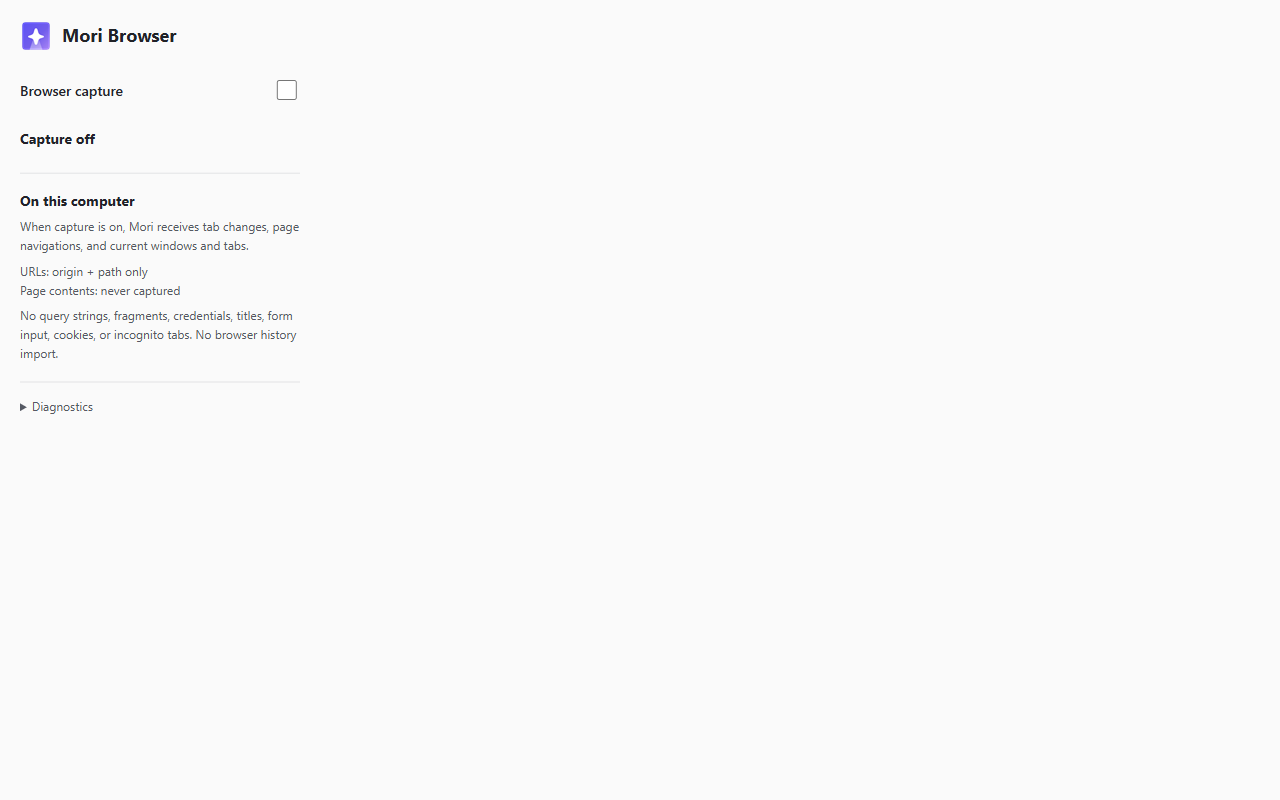
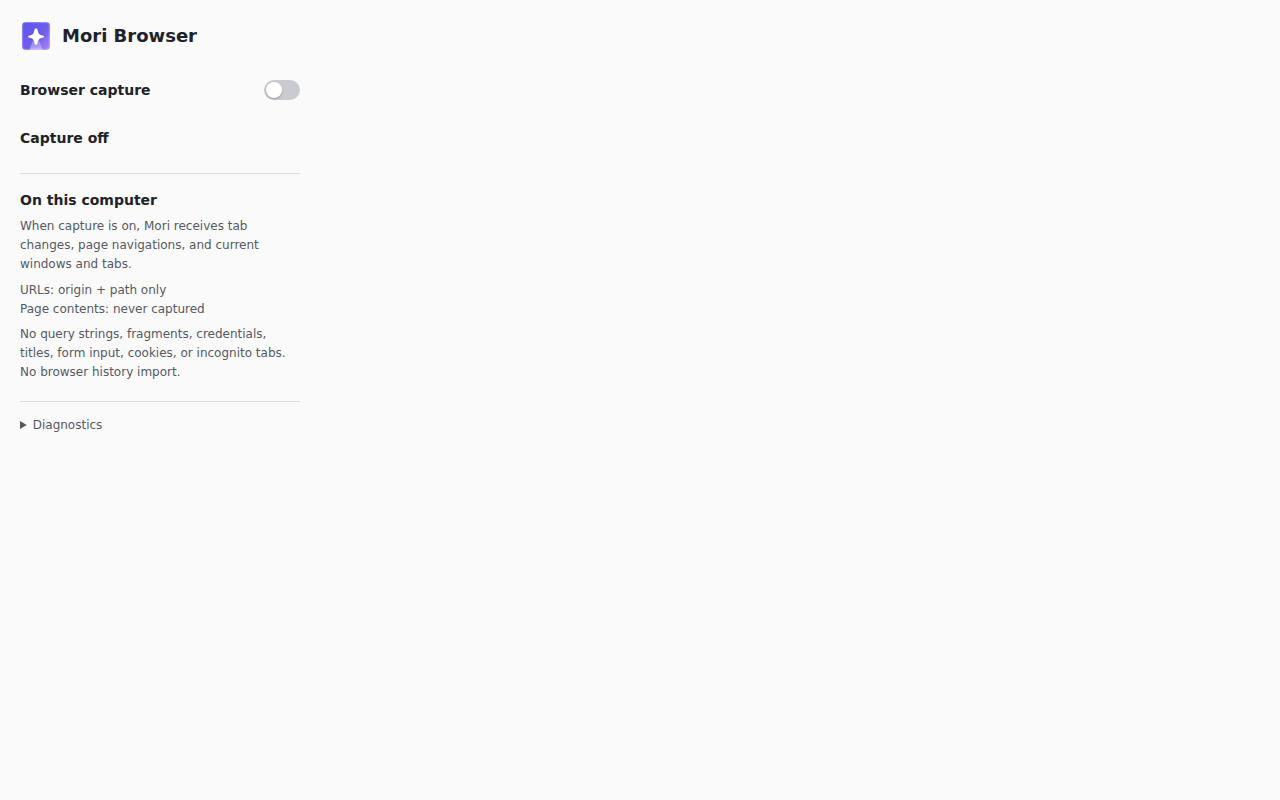
feat: show browser capture as an on and off switch
- The capture control was a bare system checkbox, the one control in the popup that looked unfinished
- Draw the same checkbox as a switch with the switch role, so the element, its id, the popup logic and the native smoke test are unchanged
- Use Mori's brand purple for the on state and the focus ring, with a dark-scheme variant, and skip the motion when reduced motion is requested
- Retake the Chrome Web Store popup screenshot so it shows the switch

diff --git a/src/popup.css b/src/popup.css
@@ -12,13 +12,25 @@ h2 { font-size: 14px; line-height: 1.5; }
 p { color: #555963; font-size: 12px; line-height: 1.6; overflow-wrap: anywhere; }
 section { display: grid; gap: 6px; }
 .toggle { display: flex; align-items: center; justify-content: space-between; gap: 12px; min-height: 40px; font-size: 14px; font-weight: 600; }
-.toggle input { width: 20px; height: 20px; accent-color: #6551c7; }
+/* The capture control is a checkbox drawn as a switch: same element, same
+   events, with the switch role so assistive technology announces on and off. */
+.toggle input {
+  appearance: none; flex: none; position: relative; width: 36px; height: 20px; margin: 0;
+  border-radius: 999px; background: #c9cbd1; cursor: pointer; transition: background-color 0.15s ease;
+}
+.toggle input::after {
+  content: ""; position: absolute; top: 2px; left: 2px; width: 16px; height: 16px; border-radius: 50%;
+  background: #fff; box-shadow: 0 1px 2px rgb(0 0 0 / 0.25); transition: transform 0.15s ease;
+}
+.toggle input:checked { background: #6246f5; }
+.toggle input:checked::after { transform: translateX(16px); }
+.toggle input:disabled { opacity: 0.5; cursor: default; }
 .disclosure, .debug { padding-top: 16px; border-top: 1px solid #dcdde0; }
 .debug summary { cursor: pointer; font-size: 12px; color: #555963; }
 .debug p { margin-top: 8px; }
 button { min-height: 32px; margin-top: 10px; padding: 5px 10px; border: 1px solid #b8bac0; border-radius: 4px; background: transparent; color: inherit; font: inherit; font-size: 12px; }
 button:disabled { opacity: 0.5; }
-:focus-visible { outline: 2px solid #6551c7; outline-offset: 3px; }
+:focus-visible { outline: 2px solid #6246f5; outline-offset: 3px; }
 [data-tone="ok"] { color: #227447; }
 [data-tone="warning"] { color: #996219; }
 @media (prefers-color-scheme: dark) {
@@ -26,6 +38,11 @@ button:disabled { opacity: 0.5; }
   p, .debug summary { color: #b9bbc2; }
   .disclosure, .debug { border-color: #44464c; }
   button { border-color: #62656c; }
+  .toggle input { background: #55585f; }
+  .toggle input:checked { background: #7b66ff; }
   [data-tone="ok"] { color: #88d3a3; }
   [data-tone="warning"] { color: #f1c576; }
+}
+@media (prefers-reduced-motion: reduce) {
+  .toggle input, .toggle input::after { transition: none; }
 }

diff --git a/src/popup.html b/src/popup.html
@@ -9,7 +9,7 @@
   <body>
     <main>
       <header><img src="../icons/icon-32.png" width="32" height="32" alt="" /><h1>Mori Browser</h1></header>
-      <label class="toggle"><span>Browser capture</span><input id="capture-toggle" type="checkbox" /></label>
+      <label class="toggle"><span>Browser capture</span><input id="capture-toggle" type="checkbox" role="switch" /></label>
       <section aria-label="Mori connection" role="status" aria-live="polite">
         <h2 id="transport-status">Capture off</h2>
         <p id="transport-detail"></p>
